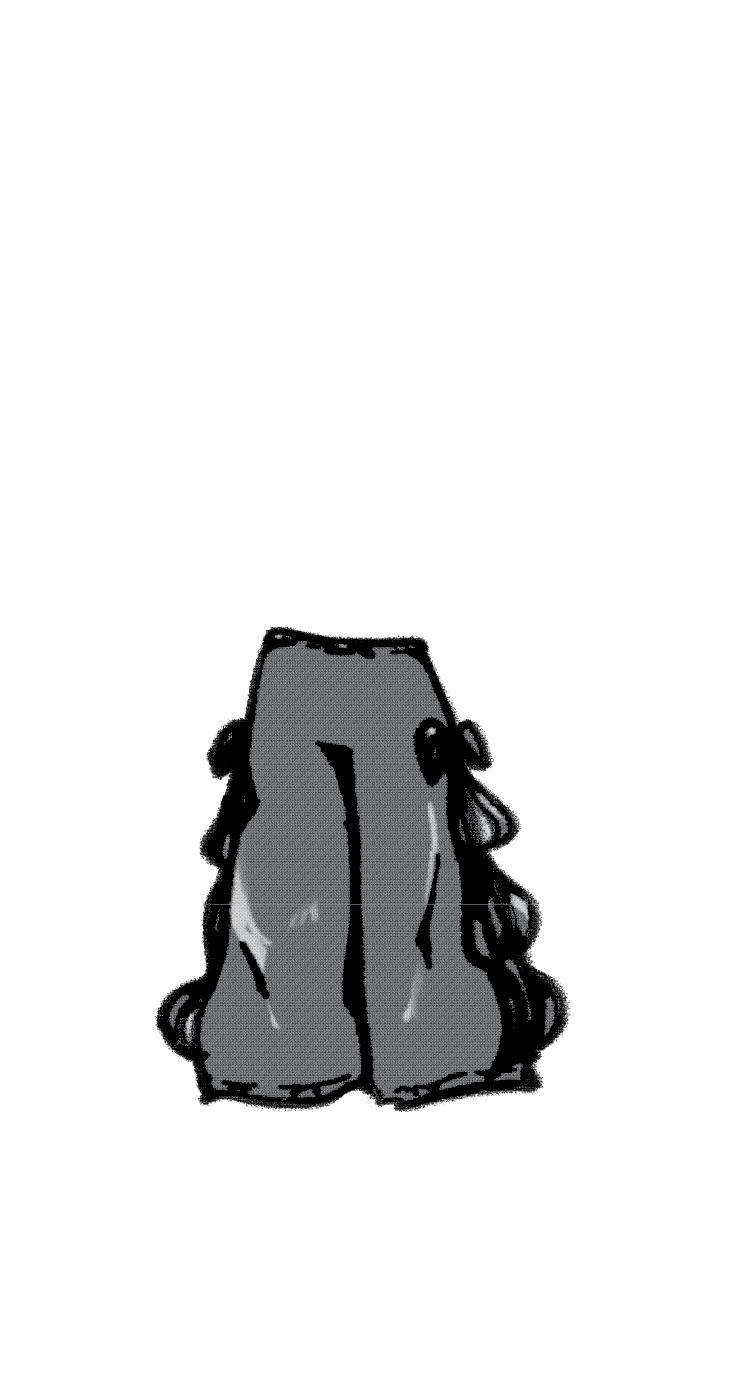
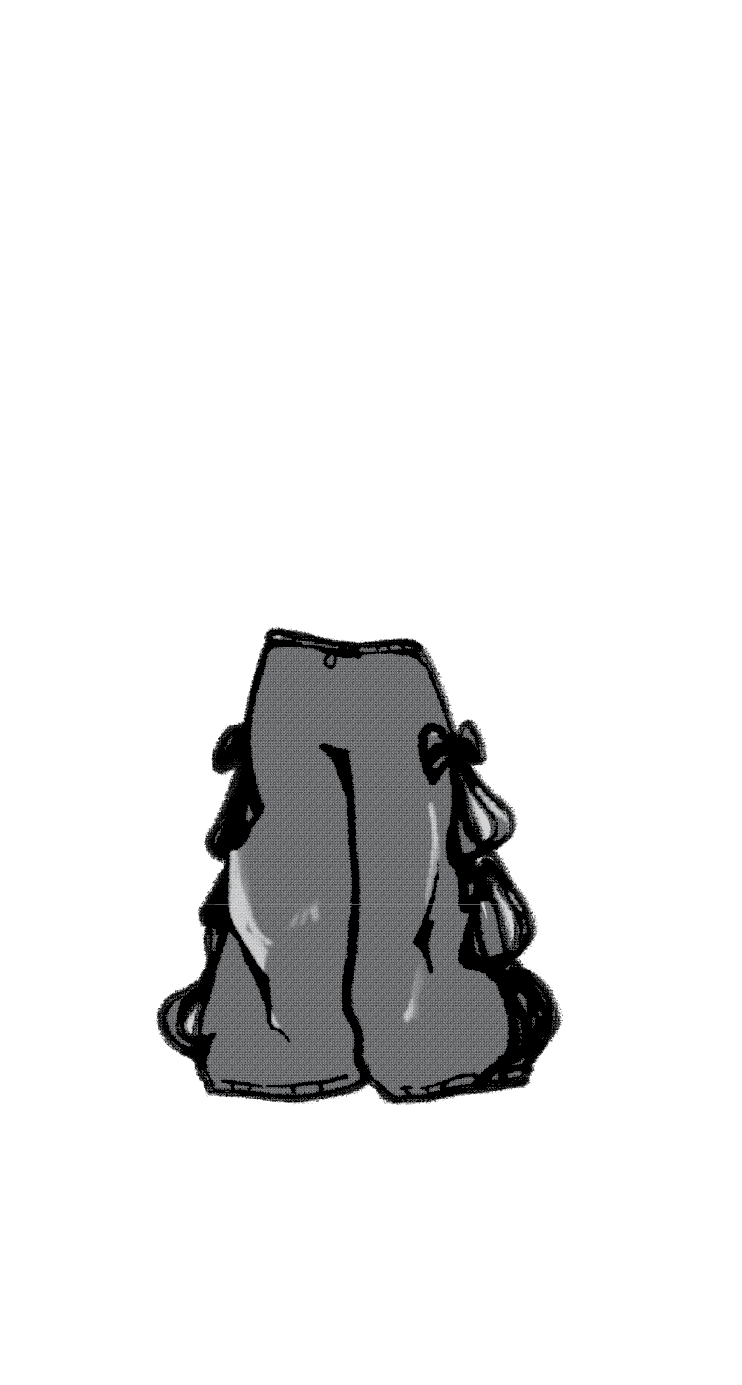
test

Changed region(s): [[0.2173, 0.4347, 0.776, 0.8072]]

diff --git a/css/style.css b/css/style.css
@@ -420,7 +420,8 @@ line-height: 24px;
 }
 
 
-@media only screen and (orientation: landscape){
+@media only screen and (pointer:none),
+(pointer:coarse) and (orientation: landscape){
     .mobile-container{
         width: 60%;
         position: absolute;
